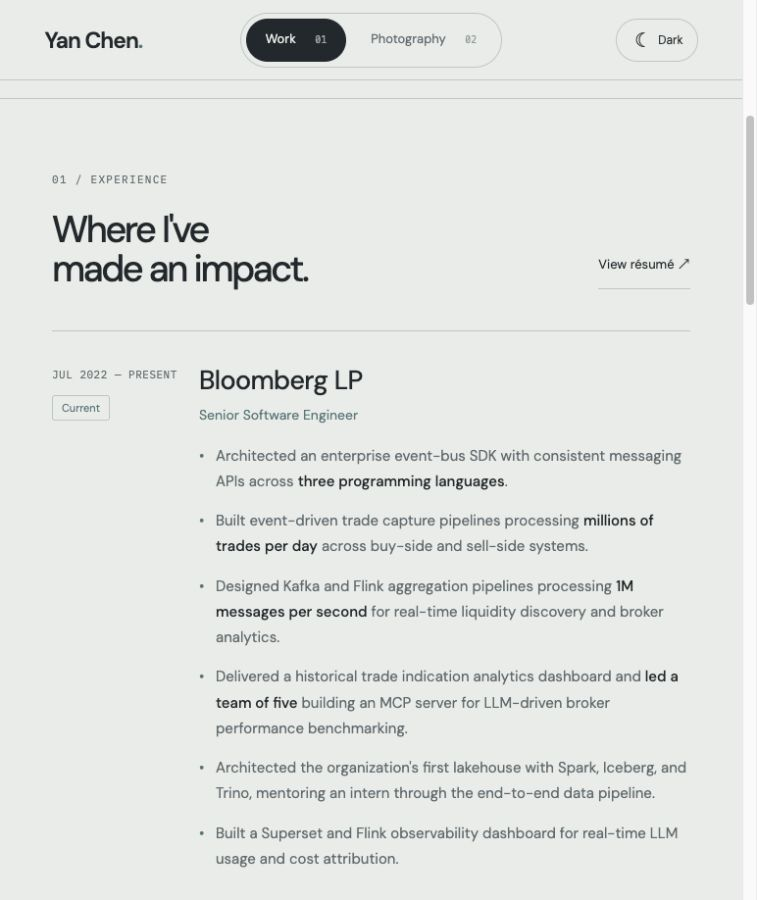
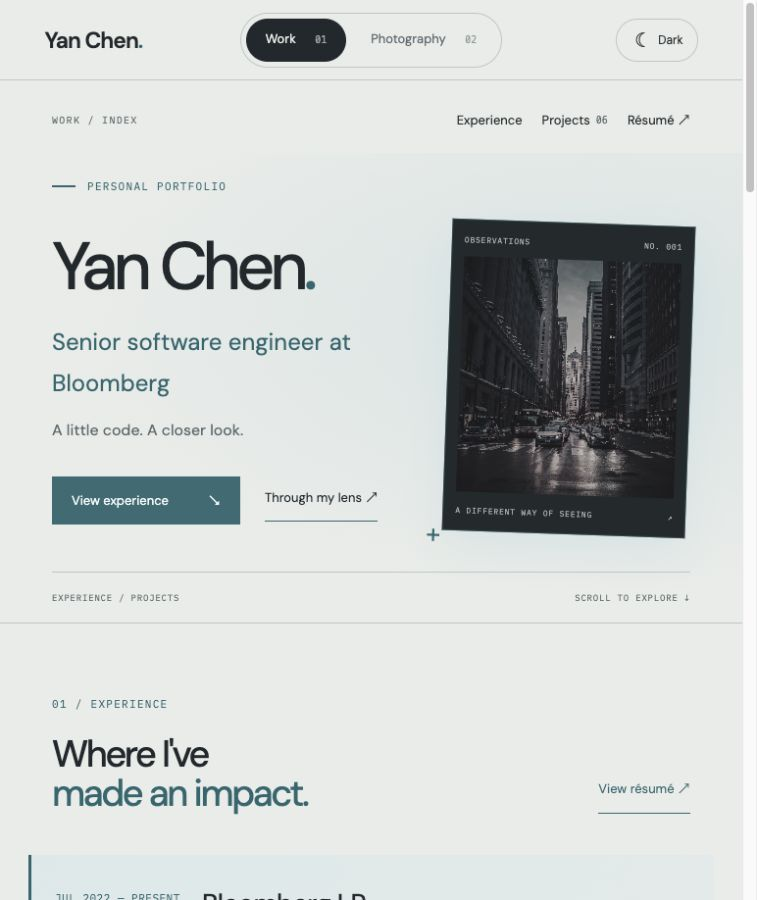
Add cool-tone accents to hero and work experience

diff --git a/style.css b/style.css
@@ -2343,3 +2343,112 @@ h1 {
     font-size: 25px;
   }
 }
+
+/* Cool blue-green and slate accents for the work portfolio. */
+body[data-theme="light"] {
+  --work-accent: #28676f;
+  --work-secondary: #4d6388;
+  --work-tint: #dce9e9;
+  --work-button: #326b74;
+  --work-button-text: #f5fafb;
+  --work-glow: #bcd9dd66;
+}
+body[data-theme="dark"] {
+  --work-accent: #8ac6cf;
+  --work-secondary: #b0bfe2;
+  --work-tint: #1c2c30;
+  --work-button: #a2d2d5;
+  --work-button-text: #172629;
+  --work-glow: #42747d26;
+}
+body:not(.photography) {
+  --accent: var(--work-accent);
+}
+.work-hero {
+  background: radial-gradient(
+    ellipse at 82% 35%,
+    var(--work-glow),
+    transparent 65%
+  );
+}
+.work-hero > .eyebrow {
+  color: var(--work-accent);
+  display: flex;
+  align-items: center;
+  gap: 12px;
+}
+.work-hero > .eyebrow:before {
+  content: "";
+  width: 24px;
+  height: 2px;
+  background: var(--work-accent);
+}
+.work-hero .intro {
+  color: var(--work-accent);
+}
+.work-hero .solid {
+  background: var(--work-button);
+  color: var(--work-button-text);
+}
+.work-hero .solid:hover {
+  background: var(--work-accent);
+}
+.work-hero .text-link {
+  border-color: var(--work-accent);
+}
+.work-hero .hero-frame {
+  border: 1px solid color-mix(in srgb, var(--work-accent) 50%, transparent);
+  box-shadow: 0 16px 45px var(--work-glow);
+}
+.experience .eyebrow,
+.experience-title-accent {
+  color: var(--work-accent);
+}
+.experience .section-heading > .text-link {
+  color: var(--work-accent);
+  border-color: var(--work-accent);
+}
+.current-job {
+  background: linear-gradient(
+    115deg,
+    var(--work-tint),
+    color-mix(in srgb, var(--work-tint) 45%, var(--bg))
+  );
+  border-left: 3px solid var(--work-accent);
+  border-top: 0;
+  margin: 0 -24px;
+  padding: 32px 24px;
+}
+.current-badge {
+  background: var(--work-button);
+  color: var(--work-button-text);
+  border-color: transparent;
+  border-radius: 20px;
+  padding: 5px 11px;
+}
+.experience .job > .mono,
+.job-date > .mono {
+  color: var(--work-accent);
+}
+.job-highlights strong,
+.experience .impact {
+  color: var(--work-secondary);
+}
+.job:not(.current-job) h3:before {
+  content: "";
+  display: inline-block;
+  width: 6px;
+  height: 6px;
+  background: var(--work-accent);
+  margin-right: 11px;
+  vertical-align: middle;
+}
+@media (max-width: 650px) {
+  .current-job {
+    margin: 0 -12px;
+    padding: 25px 12px;
+  }
+  .experience-title-accent {
+    color: var(--work-accent);
+  }
+}

diff --git a/index.html b/index.html
@@ -90,7 +90,11 @@
           <div class="section-heading">
             <div>
               <span class="eyebrow">01 / EXPERIENCE</span>
-              <h2>Where I've<br />made an impact.</h2>
+              <h2>
+                Where I've<br /><span class="experience-title-accent"
+                  >made an impact.</span
+                >
+              </h2>
             </div>
             <a
               href="assets/Yan_Chen_Resume_2026.pdf"
